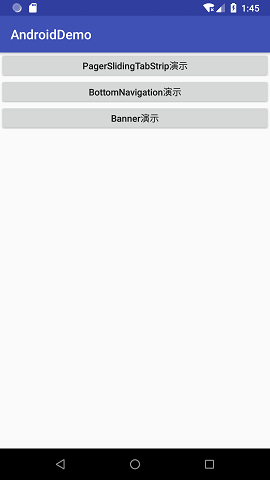
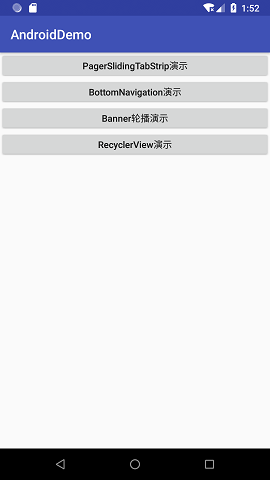
add RecyclerView demo 1. adapter + ViewHolder 2. Item间的间隔 3. 点击、长按事件

Changed region(s): [[0.0, 0.2188, 1.0, 0.3438], [0.9185, 0.0, 0.9778, 0.0312]]

diff --git a/app/src/main/java/com/example/androiddemo/recyclerview/MyDividerItemDecoration.java b/app/src/main/java/com/example/androiddemo/recyclerview/MyDividerItemDecoration.java
@@ -1,0 +1,105 @@
+package com.example.androiddemo.recyclerview;
+
+import android.content.Context;
+import android.content.res.TypedArray;
+import android.graphics.Canvas;
+import android.graphics.Rect;
+import android.graphics.drawable.Drawable;
+import android.support.v4.view.ViewCompat;
+import android.support.v7.widget.LinearLayoutManager;
+import android.support.v7.widget.RecyclerView;
+import android.view.View;
+
+/**
+ * 设置RecyclerView中的item之间的分隔线
+ */
+public class MyDividerItemDecoration extends RecyclerView.ItemDecoration {
+    private static final int[] ATTRS = new int[]{
+            android.R.attr.listDivider
+    };
+    public static final int HORIZONTAL_LIST = LinearLayoutManager.HORIZONTAL;
+    public static final int VERTICAL_LIST = LinearLayoutManager.VERTICAL;
+    /**
+     * 用于绘制间隔样式
+     */
+    private Drawable mDivider;
+    /**
+     * 列表的方向，水平/竖直
+     */
+    private int mOrientation;
+
+    /**
+     * @param context
+     * @param orientation, LinearLayoutManager.{HORIZONTAL, VERTICAL}
+     */
+    public MyDividerItemDecoration(Context context, int orientation) {
+        // 获取默认主题的属性
+        final TypedArray a = context.obtainStyledAttributes(ATTRS);
+        mDivider = a.getDrawable(0);
+        a.recycle();
+        setOrientation(orientation);
+    }
+
+    @Override
+    public void onDraw(Canvas c, RecyclerView parent, RecyclerView.State state) {
+        // 绘制间隔
+        if (mOrientation == VERTICAL_LIST) {
+            drawVertical(c, parent);
+        } else {
+            drawHorizontal(c, parent);
+        }
+    }
+
+    @Override
+    public void getItemOffsets(Rect outRect, View view, RecyclerView parent, RecyclerView.State state) {
+        if (mOrientation == VERTICAL_LIST) {
+            outRect.set(0, 0, 0, mDivider.getIntrinsicHeight());
+        } else {
+            outRect.set(0, 0, mDivider.getIntrinsicWidth(), 0);
+        }
+    }
+
+    private void setOrientation(int orientation) {
+        if (orientation != HORIZONTAL_LIST && orientation != VERTICAL_LIST) {
+            throw new IllegalArgumentException("invalid orientation");
+        }
+        mOrientation = orientation;
+    }
+
+    /**
+     * 绘制间隔
+     */
+    private void drawVertical(Canvas c, RecyclerView parent) {
+        final int left = parent.getPaddingLeft();
+        final int right = parent.getWidth() - parent.getPaddingRight();
+        final int childCount = parent.getChildCount();
+        for (int i = 0; i < childCount; i++) {
+            final View child = parent.getChildAt(i);
+            final RecyclerView.LayoutParams params = (RecyclerView.LayoutParams) child
+                    .getLayoutParams();
+            final int top = child.getBottom() + params.bottomMargin;
+            final int bottom = top + mDivider.getIntrinsicHeight();
+            mDivider.setBounds(left, top, right, bottom);
+            mDivider.draw(c);
+        }
+    }
+
+    /**
+     * 绘制间隔
+     */
+    private void drawHorizontal(Canvas c, RecyclerView parent) {
+        final int top = parent.getPaddingTop();
+        final int bottom = parent.getHeight() - parent.getPaddingBottom();
+        final int childCount = parent.getChildCount();
+        for (int i = 0; i < childCount; i++) {
+            final View child = parent.getChildAt(i);
+            final RecyclerView.LayoutParams params = (RecyclerView.LayoutParams) child
+                    .getLayoutParams();
+            final int left = child.getRight() + params.rightMargin;
+            final int right = left + mDivider.getIntrinsicHeight();
+            mDivider.setBounds(left, top, right, bottom);
+            mDivider.draw(c);
+        }
+    }
+
+}

diff --git a/app/src/main/java/com/example/androiddemo/recyclerview/RecyclerViewAdapter.java b/app/src/main/java/com/example/androiddemo/recyclerview/RecyclerViewAdapter.java
@@ -1,0 +1,88 @@
+package com.example.androiddemo.recyclerview;
+
+import android.support.annotation.NonNull;
+import android.support.v7.widget.RecyclerView;
+import android.view.LayoutInflater;
+import android.view.View;
+import android.view.ViewGroup;
+import android.widget.TextView;
+
+import com.example.androiddemo.R;
+
+import java.util.ArrayList;
+import java.util.List;
+
+public class RecyclerViewAdapter extends RecyclerView.Adapter<RecyclerViewAdapter.ViewHolder> {
+    // 数据展示
+    private ArrayList<String> mData;
+    // Item点击事件回调监听
+    public interface OnItemClickListener {
+        void onItemClick(View view, int position);
+        void onItemLongClick(View view, int position);
+    }
+    private OnItemClickListener onItemClickListener;
+
+    /**
+     * 设置回调监听
+     * @param listener
+     */
+    public void setOnItemClickListener(OnItemClickListener listener) {
+        this.onItemClickListener = listener;
+    }
+
+
+    public RecyclerViewAdapter(ArrayList<String> mData) {
+        this.mData = mData;
+    }
+
+    @NonNull
+    @Override
+    public ViewHolder onCreateViewHolder(@NonNull ViewGroup parent, int viewType) {
+        View view = LayoutInflater.from(parent.getContext()).inflate(R.layout.recycler_view_item, parent, false);
+        return (new ViewHolder(view));
+    }
+
+    @Override
+    public void onBindViewHolder(@NonNull final ViewHolder holder, final int position) {
+        // 绑定数据
+        holder.mTv.setText(mData.get(position));
+        holder.itemView.setOnClickListener(new View.OnClickListener() {
+            @Override
+            public void onClick(View v) {
+                if (onItemClickListener != null) {
+                    int pos = holder.getLayoutPosition();
+                    onItemClickListener.onItemClick(holder.itemView, pos);
+                }
+            }
+        });
+
+        holder.itemView.setOnLongClickListener(new View.OnLongClickListener() {
+            @Override
+            public boolean onLongClick(View v) {
+                if (onItemClickListener != null) {
+                    int pos = holder.getLayoutPosition();
+                    onItemClickListener.onItemLongClick(holder.itemView, pos);
+                }
+                // true表示此事件已经消费，不会触发单击事件
+                return true;
+            }
+        });
+    }
+
+    @Override
+    public int getItemCount() {
+        return null == mData ? 0 : mData.size();
+    }
+
+    public static class ViewHolder extends RecyclerView.ViewHolder {
+        private TextView mTv;
+
+        public ViewHolder(View itemView) {
+            super(itemView);
+            mTv = itemView.findViewById(R.id.rv_item_tv);
+        }
+    }
+
+
+
+}

diff --git a/app/src/main/java/com/example/androiddemo/recyclerview/RecyclerViewActivity.java b/app/src/main/java/com/example/androiddemo/recyclerview/RecyclerViewActivity.java
@@ -1,0 +1,60 @@
+package com.example.androiddemo.recyclerview;
+
+import android.support.v7.app.AppCompatActivity;
+import android.os.Bundle;
+import android.support.v7.widget.DefaultItemAnimator;
+import android.support.v7.widget.LinearLayoutManager;
+import android.support.v7.widget.RecyclerView;
+import android.view.View;
+import android.widget.Toast;
+
+import com.example.androiddemo.R;
+
+import java.util.ArrayList;
+
+public class RecyclerViewActivity extends AppCompatActivity {
+    private RecyclerView recyclerView;
+    private RecyclerViewAdapter mAdapter;
+
+    @Override
+    protected void onCreate(Bundle savedInstanceState) {
+        super.onCreate(savedInstanceState);
+        setContentView(R.layout.activity_recycler_view);
+
+        initView();
+    }
+
+    private void initView() {
+        recyclerView = findViewById(R.id.recyclerview_container);
+        // 设置布局管理器
+        recyclerView.setLayoutManager(new LinearLayoutManager(RecyclerViewActivity.this, LinearLayoutManager.VERTICAL, false));
+        // 设置adapter
+        mAdapter = new RecyclerViewAdapter(getData());
+        // 设置点击事件
+        mAdapter.setOnItemClickListener(new RecyclerViewAdapter.OnItemClickListener() {
+            @Override
+            public void onItemClick(View view, int position) {
+                Toast.makeText(RecyclerViewActivity.this, "click:" + position, Toast.LENGTH_SHORT).show();
+            }
+
+            @Override
+            public void onItemLongClick(View view, int position) {
+                Toast.makeText(RecyclerViewActivity.this, "Long click:" + position, Toast.LENGTH_SHORT).show();
+            }
+        });
+
+        recyclerView.setAdapter(mAdapter);
+        // 设置RecyclerView的间隔样式
+        recyclerView.addItemDecoration(new MyDividerItemDecoration(RecyclerViewActivity.this, LinearLayoutManager.VERTICAL));
+        //recyclerView.setItemAnimator(new DefaultItemAnimator());
+    }
+
+    private ArrayList<String> getData() {
+        ArrayList<String> data = new ArrayList<>();
+        String temp = "item:";
+        for (int i = 0; i < 20; i++) {
+            data.add(temp + i);
+        }
+        return data;
+    }
+}

diff --git a/app/src/main/java/com/example/androiddemo/MainActivity.java b/app/src/main/java/com/example/androiddemo/MainActivity.java
@@ -9,11 +9,13 @@ import android.widget.Button;
 import com.example.androiddemo.BottomNavigation.BottomNavigationActivity;
 import com.example.androiddemo.banner.BannerActivity;
 import com.example.androiddemo.pagerslidingtab.PagerSlidingTabActivity;
+import com.example.androiddemo.recyclerview.RecyclerViewActivity;
 
 public class MainActivity extends AppCompatActivity {
     private Button mBtnPagerSlidTab;
     private Button mBtnBtmNavi;
     private Button mBtnBanner;
+    private Button mBtnRecyclerView;
 
     @Override
     protected void onCreate(Bundle savedInstanceState) {
@@ -28,10 +30,12 @@ public class MainActivity extends AppCompatActivity {
         mBtnPagerSlidTab = findViewById(R.id.btn_pager_slid_tab);
         mBtnBtmNavi = findViewById(R.id.btn_btm_navi);
         mBtnBanner = findViewById(R.id.btn_banner);
+        mBtnRecyclerView = findViewById(R.id.btn_recyclerview);
 
         mBtnPagerSlidTab.setOnClickListener(onClick);
         mBtnBtmNavi.setOnClickListener(onClick);
         mBtnBanner.setOnClickListener(onClick);
+        mBtnRecyclerView.setOnClickListener(onClick);
     }
 
     class OnClick implements View.OnClickListener {
@@ -51,6 +55,10 @@ public class MainActivity extends AppCompatActivity {
                 case R.id.btn_banner:
                     // 跳转到Banner轮播演示界面
                     intent = new Intent(MainActivity.this, BannerActivity.class);
+                    break;
+                case R.id.btn_recyclerview:
+                    // 跳转到RecyclerView演示界面
+                    intent = new Intent(MainActivity.this, RecyclerViewActivity.class);
                     break;
             }
             startActivity(intent);
